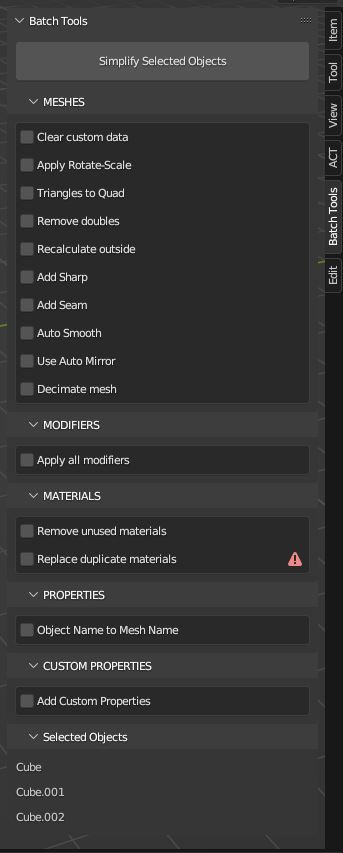
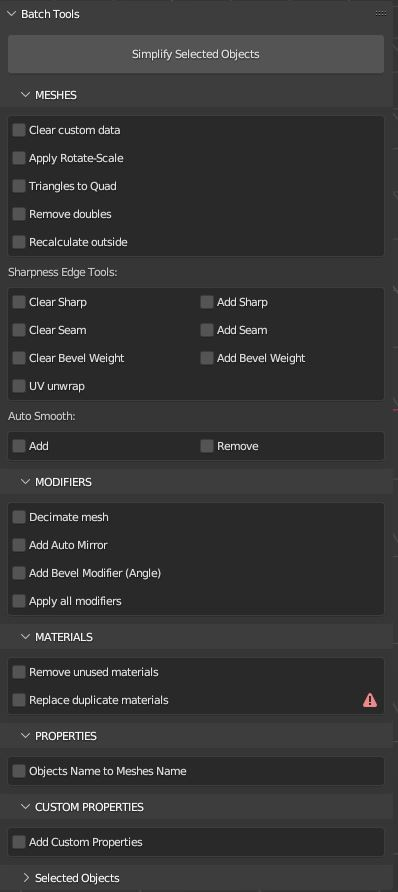
[feat] Add Bevel (Angle/Wheight) [fix] Add/Remove Auto Smooth

diff --git a/Simplify_VARS.py b/Simplify_VARS.py
@@ -15,7 +15,8 @@ def registerDataTypes():
     ## UV unwrap
     bpy.types.Scene.simplify_use_uv_unwrap = bpy.props.BoolProperty(name="UV unwrap", description="Unwrap UV", default=False)
     
-    bpy.types.Scene.simplify_use_auto_smooth = bpy.props.BoolProperty(name="Auto Smooth", description="Auto Smooth", default=False)
+    bpy.types.Scene.simplify_add_auto_smooth = bpy.props.BoolProperty(name="Add", description="Add Auto Smooth", default=False)
+    bpy.types.Scene.simplify_remove_auto_smooth = bpy.props.BoolProperty(name="Remove", description="Remove Auto Smooth", default=False)
     bpy.types.Scene.simplify_auto_smooth_value = bpy.props.FloatProperty(name="Auto Smooth Value", description="Auto Smooth Value (min: 0.00, max: 180.00)", default=80.00, min=0.00, max=180.00, step=5)
     bpy.types.Scene.simplify_use_recalulate_outside = bpy.props.BoolProperty(name="Recalculate outside", description="Recalculate normal outside", default=False)
     bpy.types.Scene.simplify_use_clear_custom_data = bpy.props.BoolProperty(name="Clear custom data", description="Clear custom split normals data", default=False)
@@ -24,9 +25,11 @@ def registerDataTypes():
     
     ##Modifiers
     bpy.types.Scene.simplify_use_decimate = bpy.props.BoolProperty(name="Decimate mesh", description="Decimate the mesh", default=False)
-    bpy.types.Scene.simplify_decimate_value = bpy.props.FloatProperty(name="Decimate Value", description="Decimate Value (min: 0.01, max: 0.95)", default=0.1, min=0.01, max=0.99, step=500)
-    bpy.types.Scene.simplify_use_auto_mirror = bpy.props.BoolProperty(name="Use Auto Mirror", description="Use automirror", default=False)
-    bpy.types.Scene.simplify_use_bevel_modifier = bpy.props.BoolProperty(name="Use Bevel Modifier", description="Use Bevel Modifier", default=False)
+    bpy.types.Scene.simplify_decimate_value = bpy.props.FloatProperty(name="Decimate Value", description="Decimate Value (min: 0.01, max: 0.95)", default=0.5, min=0.01, max=0.95, step=10)
+    bpy.types.Scene.simplify_use_auto_mirror = bpy.props.BoolProperty(name="Add Auto Mirror", description="Add automirror", default=False)
+    bpy.types.Scene.simplify_use_bevel_modifier_weight = bpy.props.BoolProperty(name="Add Bevel Modifier (Weight)", description="Add Bevel Modifier", default=False)
+    bpy.types.Scene.simplify_use_bevel_modifier = bpy.props.BoolProperty(name="Add Bevel Modifier (Angle)", description="Add Bevel Modifier", default=False)
+    bpy.types.Scene.simplify_bevel_modifier_angle = bpy.props.FloatProperty(name="Angle Value", description="Angle Value (min: 0.00, max: 180.00)", default=30.00, min=0.00, max=180.00, step=5)
     bpy.types.Scene.simplify_use_apply_all_modifiers = bpy.props.BoolProperty(name="Apply all modifiers", description="Apply all modifiers", default=False)
     
     bpy.types.Scene.simplify_use_remove_unused_materials = bpy.props.BoolProperty(name="Remove unused materials", description="Remove all unused materials", default=False)
@@ -57,7 +60,8 @@ def unregisterDataTypes():
 
     del bpy.types.Scene.simplify_use_uv_unwrap
 
-    del bpy.types.Scene.simplify_use_auto_smooth
+    del bpy.types.Scene.simplify_add_auto_smooth
+    del bpy.types.Scene.simplify_remove_auto_smooth
     del bpy.types.Scene.simplify_auto_smooth_value
     del bpy.types.Scene.simplify_use_recalulate_outside
     del bpy.types.Scene.simplify_use_clear_custom_data
@@ -68,7 +72,9 @@ def unregisterDataTypes():
     del bpy.types.Scene.simplify_use_decimate
     del bpy.types.Scene.simplify_decimate_value
     del bpy.types.Scene.simplify_use_auto_mirror
+    del bpy.types.Scene.simplify_use_bevel_modifier_weight
     del bpy.types.Scene.simplify_use_bevel_modifier
+    del bpy.types.Scene.simplify_bevel_modifier_angle
     del bpy.types.Scene.simplify_use_apply_all_modifiers
 
     del bpy.types.Scene.simplify_use_remove_unused_materials

diff --git a/Simplify_OP.py b/Simplify_OP.py
@@ -103,26 +103,48 @@ class Simplify_OT_Simplify(bpy.types.Operator):
                 if context.scene.simplify_use_apply_scale_rotate:
                     bpy.ops.object.transform_apply(location=False, rotation=True, scale=True)
 
-                bpy.data.objects[obj.name].data.use_auto_smooth = context.scene.simplify_use_auto_smooth
-                if context.scene.simplify_use_auto_smooth:
+                if context.scene.simplify_add_auto_smooth:
+                    bpy.data.objects[obj.name].data.use_auto_smooth = True
                     obj.data.auto_smooth_angle = math.pi / 180 * context.scene.simplify_auto_smooth_value
-                
+                if context.scene.simplify_remove_auto_smooth:
+                    bpy.data.objects[obj.name].data.use_auto_smooth = False
+                    
                 ## Modifiers
 
                 if context.scene.simplify_use_decimate:
                     bpy.ops.mesh.customdata_custom_splitnormals_clear()
-                    dec = obj.modifiers.new("Simplify Decimate", type="DECIMATE")
-                    dec.ratio = context.scene.simplify_decimate_value
+                    modifier_name = "Simplify Decimate"
+                    try:
+                        obj.modifiers[modifier_name]
+                    except KeyError:
+                        dec = obj.modifiers.new(modifier_name, type="DECIMATE")
+                        dec.ratio = context.scene.simplify_decimate_value
                 
                 if context.scene.simplify_use_auto_mirror:
                     bpy.ops.object.automirror()
                 
+                if context.scene.simplify_use_bevel_modifier_weight:
+                    bpy.ops.mesh.customdata_custom_splitnormals_clear()
+                    modifier_name = "Simplify Bevel Weight"
+                    try:
+                        obj.modifiers[modifier_name]
+                    except KeyError:
+                        bev = obj.modifiers.new(modifier_name, type="BEVEL")
+                        bev.width = 0.015
+                        bev.segments = 3
+                        bev.limit_method = "WEIGHT"
+
                 if context.scene.simplify_use_bevel_modifier:
                     bpy.ops.mesh.customdata_custom_splitnormals_clear()
-                    bev = obj.modifiers.new("Simplify Bevel", type="BEVEL")
-                    bev.width = 0.01
-                    bev.segments = 3
-                    bev.limit_method = "WEIGHT"
+                    modifier_name = "Simplify Bevel Angle"
+                    try:
+                        obj.modifiers[modifier_name]
+                    except KeyError:
+                        bev = obj.modifiers.new(modifier_name, type="BEVEL")
+                        bev.width = 0.015
+                        bev.segments = 3
+                        bev.angle_limit = math.pi / 180 * context.scene.simplify_bevel_modifier_angle
+
 
 
                 if context.scene.simplify_use_apply_all_modifiers:

diff --git a/Simplify_PNL.py b/Simplify_PNL.py
@@ -41,6 +41,7 @@ class SIMPLIFY_PT_mesh(SIMPLIFY_PT_panel, bpy.types.Panel):
         
         
         ## sharpness tools
+        layout.label(text="Sharpness Edge Tools:")
         box_mesh = layout.box()
         row = box_mesh.row()
         row.prop(scn, "simplify_clear_sharp")
@@ -58,16 +59,18 @@ class SIMPLIFY_PT_mesh(SIMPLIFY_PT_panel, bpy.types.Panel):
             row.prop(scn, "simplify_auto_select_sharp_value")
             layout.separator(factor=1.0)
             row = box_mesh.row()
-            row.prop(scn, "simplify_use_bevel_modifier")
+            row.prop(scn, "simplify_use_bevel_modifier_weight")
         
         ## uv unwrap
         row = box_mesh.row()
         row.prop(scn, "simplify_use_uv_unwrap")
         
+        layout.label(text="Auto Smooth:")
         box_mesh = layout.box()
         row = box_mesh.row()
-        row.prop(scn, "simplify_use_auto_smooth")
-        if context.scene.simplify_use_auto_smooth:
+        row.prop(scn, "simplify_add_auto_smooth")
+        row.prop(scn, "simplify_remove_auto_smooth")
+        if context.scene.simplify_add_auto_smooth:
             row = box_mesh.row()
             row.scale_y = 2
             row.prop(scn, "simplify_auto_smooth_value")
@@ -99,6 +102,10 @@ class SIMPLIFY_PT_modifiers(SIMPLIFY_PT_panel, bpy.types.Panel):
         
         row = box_modifiers.row()
         row.prop(scn, "simplify_use_bevel_modifier")
+        if context.scene.simplify_use_bevel_modifier:
+            row = box_modifiers.row()
+            row.scale_y = 2
+            row.prop(scn, "simplify_bevel_modifier_angle")
         
         row = box_modifiers.row()
         row.prop(scn, "simplify_use_apply_all_modifiers")

diff --git a/__init__.py b/__init__.py
@@ -18,7 +18,7 @@ bl_info = {
     "author" : "Boris",
     "description" : "Batch/stackable tools for lot of repetitive manipulation",
     "blender" : (3, 5, 1),
-    "version" : (0, 0, 8),
+    "version" : (0, 0, 9),
     "location" : "3D View",
     "category" : "Mesh"
 }

diff --git a/README.MD b/README.MD
@@ -31,12 +31,12 @@ ___
 - Clear / Add Bevel Weight (to Sharp Edges)
 - Uv unwrap
 
-- Auto Smooth
+- Auto Smooth (add/remove)
 
 ### Modifiers
 - Decimate mesh
 - Auto Mirror
-- Bevel modifier (WIP - only in weight)
+- Bevel modifier (Angle Value)
 - Apply all modifiers
 
 ### Materials
